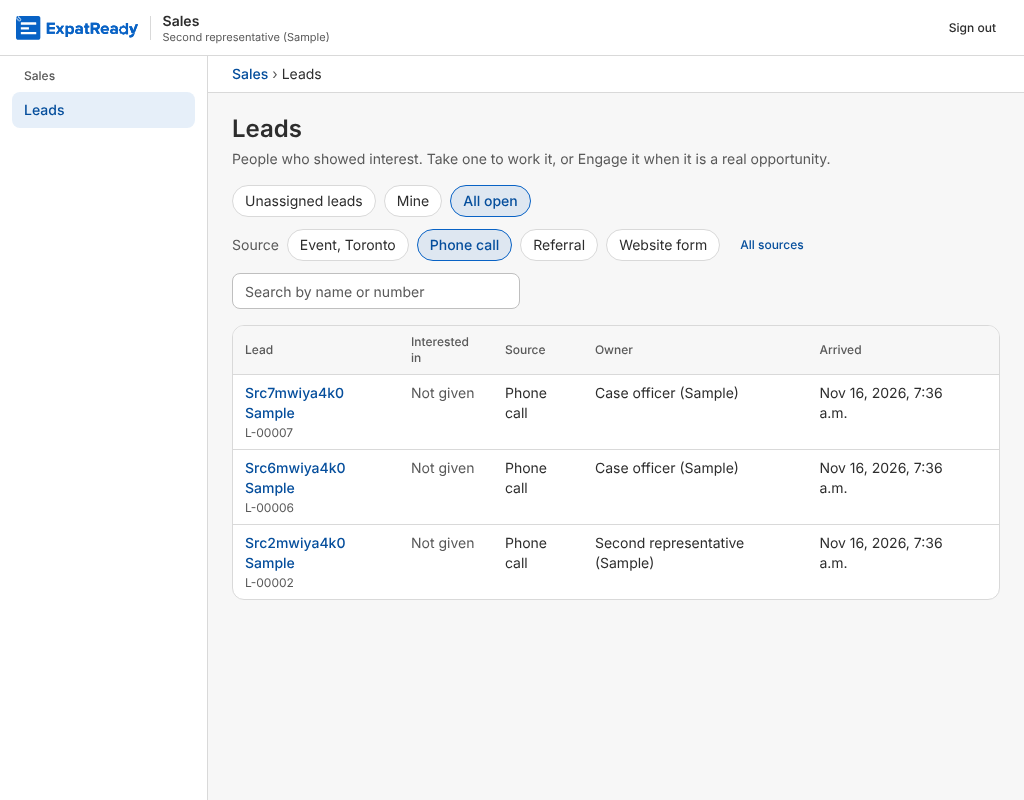
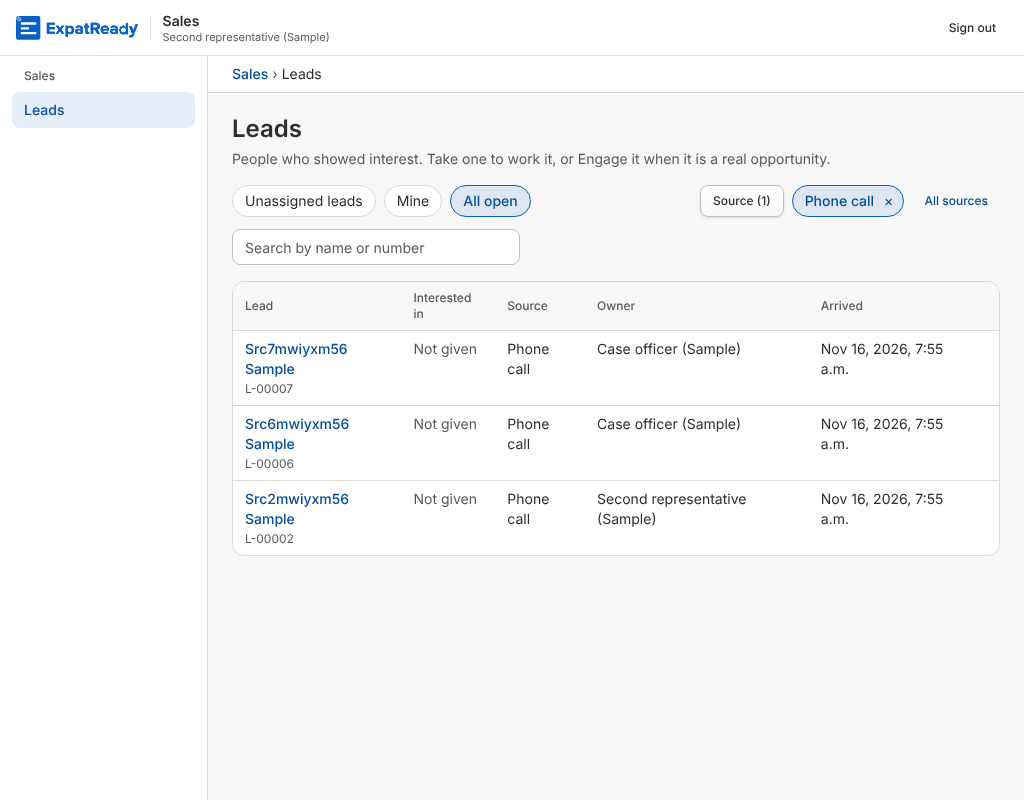
FO-4sf: one Source control (checkbox list with Find, chosen as chips); GROUP BY for sources; words() maps only known codes (re-review M4, m5, m6)
Claude-Session: https://claude.ai/code/session_018BSQJrtte9jtAzpoeJHT9g

diff --git a/ai-workers/problem-1-pathway-setup-and-form-filling/prototype/studio/tests/check_fo4sf_source_filter.ts b/ai-workers/problem-1-pathway-setup-and-form-filling/prototype/studio/tests/check_fo4sf_source_filter.ts
@@ -99,33 +99,53 @@ const shown = async () => new Set(await p.locator("tr[data-lead-row]").evaluateA
 const numberOf = (id: string) => sql(`select number from fo_lead where id = '${id}'`);
 const axe = async (name: string) => { const r = await new AxeBuilder({ page: p }).withTags(["wcag2a", "wcag2aa", "wcag21a", "wcag21aa", "wcag22aa"]).analyze();
   ok(`${name}: axe finds no WCAG A/AA violation`, r.violations.length === 0, r.violations.map((v) => `${v.id}: ${v.nodes[0]?.target?.join(" ")}`).join(" | ") || undefined); };
+// Scale (review M4): 30 more sources the Case Manager has, so the control must hold an open-ended list.
+for (let i = 1; i <= 30; i++) lead("MANUAL", `Sample source ${String(i).padStart(2, "0")}`, T.id);
+await p.setViewportSize({ width: 1024, height: 800 });
 await p.goto(`${BASE}/front-office/leads?view=all`); await p.locator(`tr[data-lead-row="${numberOf(L.tBook)}"]`).waitFor({ timeout: 30_000 });
-const chipTexts = await p.locator('[role="group"][aria-label="Source"] button[data-source]').allInnerTexts();
-ok("FO-4sf DW3 pass: the Source filter sits beside the view chips with the stored sources in plain words, none chosen", ["Website form", "Phone call", "Referral", "Event, Toronto"].every((x) => chipTexts.includes(x)) && !chipTexts.includes("WEBSITE") && (await p.locator('[data-source][aria-pressed="true"]').count()) === 0, chipTexts);
-await axe("FO-4sf Leads with the Source filter (1440 px)");
-// Keyboard only: Tab to "Phone call", Enter.
+const firstRowTop = async () => (await p.locator("tr[data-lead-row]").first().boundingBox())?.y ?? 9999;
+ok("FO-4sf DW3 pass (scale): with 34 sources at 1024 px the Source filter is one control and the table starts in the first screen", (await p.locator("[data-source-toggle]").count()) === 1 && (await p.locator("[data-source-toggle]").innerText()).trim() === "Source: all" && (await firstRowTop()) < 800, await firstRowTop());
+await axe("FO-4sf Leads with the Source filter (1024 px)");
+// Keyboard only: Tab to the Source button, Enter opens it with the cursor in Find, type, Tab to the box, Space ticks it.
 let reached = false;
-for (let i = 0; i < 40 && !reached; i++) { await p.keyboard.press("Tab"); reached = await p.evaluate(() => document.activeElement?.getAttribute("data-source") === "Phone call"); }
+for (let i = 0; i < 40 && !reached; i++) { await p.keyboard.press("Tab"); reached = await p.evaluate(() => document.activeElement?.hasAttribute("data-source-toggle") ?? false); }
 await p.keyboard.press("Enter");
+await p.locator("#fo-source-list").waitFor({ timeout: 5_000 });
+const inFind = await p.evaluate(() => document.activeElement?.hasAttribute("data-source-find") ?? false);
+const listTexts = await p.locator('#fo-source-list label:has(input[data-source])').allInnerTexts();
+ok("FO-4sf DW3 pass: the list holds the stored sources in plain words, none ticked, and scrolls inside itself", ["Website form", "Phone call", "Referral", "Event, Toronto"].every((x) => listTexts.map((t) => t.trim()).includes(x)) && !listTexts.some((t) => t.trim() === "WEBSITE") && (await p.locator("#fo-source-list input:checked").count()) === 0
+  && await p.locator("#fo-source-list fieldset").evaluate((f) => f.scrollHeight > f.clientHeight) && (await firstRowTop()) < 800, listTexts.length);
+await axe("FO-4sf Source list open (1024 px)");
+await p.keyboard.type("zzz");
+ok("FO-4sf DW3 fail: Find with no match says so, and nothing is chosen", (await p.locator("#fo-source-list [role=status]").innerText()).includes("No source matches") && !p.url().includes("source="));
+await p.keyboard.press("Control+a"); await p.keyboard.type("phone");
+await p.keyboard.press("Tab"); const onBox = await p.evaluate(() => document.activeElement?.getAttribute("data-source"));
+await p.keyboard.press("Space");
 await p.waitForURL(/source=Phone/, { timeout: 10_000 }); await p.locator(`tr[data-lead-row="${numberOf(L.tBook)}"]`).waitFor({ state: "detached", timeout: 15_000 }); await p.locator(`tr[data-lead-row="${numberOf(L.tMan)}"]`).waitFor({ timeout: 15_000 });
+await p.keyboard.press("Escape");
 const afterPick = await shown();
-ok("FO-4sf DW3 pass (keyboard only): Tab reaches \"Phone call\", Enter filters the list to those leads, the booked one included", reached && [L.tMan, L.oMan, L.oBook].every((x) => afterPick.has(numberOf(x))) && ![L.tWeb, L.tBook, L.oWeb, L.tComma].some((x) => afterPick.has(numberOf(x))), [...afterPick]);
+ok("FO-4sf DW3 pass (keyboard only): Tab, Enter, type \"phone\", Tab, Space filters to Phone call, the booked lead included; Escape closes and returns to the button", reached && inFind && onBox === "Phone call" && [L.tMan, L.oMan, L.oBook].every((x) => afterPick.has(numberOf(x))) && ![L.tWeb, L.tBook, L.oWeb, L.tComma].some((x) => afterPick.has(numberOf(x)))
+  && (await p.locator("#fo-source-list").count()) === 0 && await p.evaluate(() => document.activeElement?.hasAttribute("data-source-toggle") ?? false), { reached, inFind, onBox, rows: [...afterPick] });
 await p.reload(); await p.locator(`tr[data-lead-row="${numberOf(L.tMan)}"]`).waitFor({ timeout: 30_000 });
 const afterReload = await shown();
-ok("FO-4sf DW3 pass: the choice survives a reload (?source= in the address, the chip still pressed)", (await p.locator('[data-source="Phone call"][aria-pressed="true"]').count()) === 1 && !afterReload.has(numberOf(L.tBook)) && p.url().includes("view=all"), p.url());
-await axe("FO-4sf Leads filtered by Phone call");
-await p.screenshot({ path: join(SHOTS, "leads-source-filter-1440.png"), fullPage: true });
-for (const w of [1024, 375]) {
-  await p.setViewportSize({ width: w, height: 800 });
+ok("FO-4sf DW3 pass: the choice survives a reload (?source= in the address, shown as a chip and on the button)", (await p.locator('[data-source-chip="Phone call"]').count()) === 1 && (await p.locator("[data-source-toggle]").innerText()).trim() === "Source (1)" && !afterReload.has(numberOf(L.tBook)) && p.url().includes("view=all"), p.url());
+await axe("FO-4sf Leads filtered by Phone call (1024 px)");
+await p.screenshot({ path: join(SHOTS, "leads-source-filter-1024.png"), fullPage: true });
+for (const w of [1440, 375]) {
+  await p.setViewportSize({ width: w, height: w === 375 ? 800 : 900 });
   ok(`FO-4sf DW3 pass: no sideways page scroll at ${w} px`, await p.evaluate(() => document.documentElement.scrollWidth <= window.innerWidth + 1));
-  await p.screenshot({ path: join(SHOTS, `leads-source-filter-${w}.png`), fullPage: true });
+  if (w === 375) { await p.locator("[data-source-toggle]").click(); await p.locator("#fo-source-list").waitFor(); ok("FO-4sf DW3 pass: the open list fits the 375 px screen", await p.evaluate(() => { const r = document.getElementById("fo-source-list")!.getBoundingClientRect(); return r.left >= 0 && r.right <= window.innerWidth + 1 && document.documentElement.scrollWidth <= window.innerWidth + 1; })); await axe("FO-4sf Source list open (375 px)"); await p.screenshot({ path: join(SHOTS, "leads-source-filter-375.png"), fullPage: true }); await p.keyboard.press("Escape"); }
+  else await p.screenshot({ path: join(SHOTS, "leads-source-filter-1440.png"), fullPage: true });
 }
-await axe("FO-4sf Leads filtered (375 px)"); await p.setViewportSize({ width: 1440, height: 900 });
-await p.locator('[data-source-clear]').click(); await p.locator(`tr[data-lead-row="${numberOf(L.tBook)}"]`).waitFor({ timeout: 15_000 });
-ok("FO-4sf DW3 pass: All sources clears the filter and the address", !p.url().includes("source=") && (await shown()).has(numberOf(L.oWeb)), p.url());
+await p.setViewportSize({ width: 1440, height: 900 });
+await p.getByRole("button", { name: "Remove source: Phone call" }).click(); await p.locator(`tr[data-lead-row="${numberOf(L.tBook)}"]`).waitFor({ timeout: 15_000 });
+ok("FO-4sf DW3 pass: the chip's × removes that source and clears the address", !p.url().includes("source=") && (await shown()).has(numberOf(L.oWeb)), p.url());
+await p.goto(`${BASE}/front-office/leads?view=all&source=Referral&source=WEBSITE`); await p.locator(`tr[data-lead-row="${numberOf(L.tWeb)}"]`).waitFor({ timeout: 30_000 });
+await p.locator("[data-source-clear]").click(); await p.locator(`tr[data-lead-row="${numberOf(L.tMan)}"]`).waitFor({ timeout: 15_000 });
+ok("FO-4sf DW3 pass: All sources clears every chosen source and the address", !p.url().includes("source=") && (await p.locator("[data-source-chip]").count()) === 0, p.url());
 // Fail side: a hand-edited address with an unknown source is dropped (all sources shown), never an error page.
 await p.goto(`${BASE}/front-office/leads?view=all&source=FAX`); await p.locator(`tr[data-lead-row="${numberOf(L.tBook)}"]`).waitFor({ timeout: 30_000 });
-ok("FO-4sf DW3 fail: an unknown ?source= in the address is ignored: no chip pressed, every source listed, no error", (await p.locator('[data-source][aria-pressed="true"]').count()) === 0 && (await p.getByRole("alert").count()) === 0);
+ok("FO-4sf DW3 fail: an unknown ?source= in the address is ignored: no chip, every source listed, no error", (await p.locator("[data-source-chip]").count()) === 0 && (await p.getByRole("alert").count()) === 0);
 // Fail side: a source with no lead in this view says so and offers All sources.
 sql(`update fo_lead set owner_staff_id = '${O.id}' where id = '${L.tBook}'`);   // the Case Manager now owns no Referral lead
 await p.goto(`${BASE}/front-office/leads?view=mine&source=Referral`); await p.locator("[data-empty]").waitFor({ timeout: 30_000 });

diff --git a/ai-workers/problem-1-pathway-setup-and-form-filling/prototype/studio/web/src/modules/front-office/sales/leads-page.tsx b/ai-workers/problem-1-pathway-setup-and-form-filling/prototype/studio/web/src/modules/front-office/sales/leads-page.tsx
@@ -24,6 +24,56 @@ export function useLeads(view: View, sources: string[] = [], enabled = true) {
   return useQuery({ enabled, queryKey: ["fo", "leads", view, ...(sources.length ? [sources] : [])], queryFn: async () => LeadRows.parse(await staffApi(`/front-office/leads?view=${view}${q}`)) });
 }
 const useSources = () => useQuery({ queryKey: ["fo", "lead-sources"], queryFn: async () => LeadSources.parse(await staffApi("/front-office/leads/sources")).sources });
+/** FO-4sf (AG-2-23 rule 1): one Source control for an open-ended list. A button opens a checkbox list with type-to-find;
+ *  each chosen source shows as a removable chip beside it. Escape or a click outside closes it and focus returns. */
+function SourceFilter({ choices, chosen, toggle, clear, failed, retry }: { choices: string[]; chosen: string[]; toggle: (c: string) => void; clear: () => void; failed: boolean; retry: () => void }) {
+  const [open, setOpen] = React.useState(false);
+  const [find, setFind] = React.useState("");
+  const box = React.useRef<HTMLDivElement>(null), opener = React.useRef<HTMLButtonElement>(null), finder = React.useRef<HTMLInputElement>(null);
+  const close = (refocus: boolean) => { setOpen(false); setFind(""); if (refocus) opener.current?.focus(); };
+  React.useEffect(() => {
+    if (!open) return;
+    finder.current?.focus();
+    const away = (e: MouseEvent) => { if (box.current && !box.current.contains(e.target as Node)) close(false); };
+    document.addEventListener("mousedown", away); return () => document.removeEventListener("mousedown", away);
+  }, [open]);
+  const needle = find.trim().toLowerCase();
+  const listed = choices.filter((c) => !needle || words(c).toLowerCase().includes(needle) || c.toLowerCase().includes(needle));
+  return (
+    <div ref={box} data-source-filter className="relative flex flex-wrap items-center gap-2" onKeyDown={(e) => { if (e.key === "Escape" && open) { e.stopPropagation(); close(true); } }}>
+      <Button ref={opener} variant="outline" size="sm" aria-expanded={open} aria-controls="fo-source-list" data-source-toggle onClick={() => (open ? close(true) : setOpen(true))}>
+        {chosen.length ? `Source (${chosen.length})` : "Source: all"}
+      </Button>
+      {chosen.map((c) => (
+        <span key={c} data-source-chip={c} className="inline-flex min-h-8 items-center gap-1 rounded-full border border-primary bg-primary/10 pl-3 pr-1 text-sm font-medium text-text-link [overflow-wrap:anywhere]">
+          {words(c)}
+          <button type="button" aria-label={`Remove source: ${words(c)}`} onClick={() => toggle(c)} className="rounded-full px-1.5 outline-none hover:bg-text/10 focus-visible:ring-[3px] focus-visible:ring-ring/50">×</button>
+        </span>
+      ))}
+      {chosen.length ? <Button variant="link" size="sm" data-source-clear onClick={clear}>All sources</Button> : null}
+      {failed ? <span role="alert" className="text-sm text-text-danger">Could not load the sources. <Button variant="link" size="sm" onClick={retry}>Try again</Button></span> : null}
+      {open ? (
+        <div id="fo-source-list" className="absolute left-0 top-full z-20 mt-1 w-[min(20rem,calc(100vw-2rem))] rounded-xl border border-border bg-surface-raised p-2 shadow-lg">
+          <label className="block">
+            <span className="sr-only">Find a source</span>
+            <Input ref={finder} type="search" placeholder="Find a source" value={find} onChange={(e) => setFind(e.target.value)} data-source-find />
+          </label>
+          <fieldset className="mt-2 max-h-64 overflow-y-auto">
+            <legend className="sr-only">Show leads from these sources</legend>
+            {!choices.length ? <p className="px-2 py-1 text-sm text-text-muted">No sources yet.</p>
+              : !listed.length ? <p role="status" className="px-2 py-1 text-sm text-text-muted">No source matches “{find.trim()}”.</p>
+                : listed.map((c) => (
+                  <label key={c} className="flex min-h-9 cursor-pointer items-center gap-2 rounded-md px-2 text-sm text-text hover:bg-text/5 [overflow-wrap:anywhere]">
+                    <input type="checkbox" data-source={c} checked={chosen.includes(c)} onChange={() => toggle(c)} className="size-4 accent-[var(--color-primary,currentColor)]" />
+                    {words(c)}
+                  </label>
+                ))}
+          </fieldset>
+        </div>
+      ) : null}
+    </div>
+  );
+}
 function LeadsBody() {
   const me = useStaff();
   const [params, setParams] = useSearchParams();
@@ -63,17 +113,7 @@ function LeadsBody() {
             </button>
           ))}
         </div>
-        <div role="group" aria-label="Source" data-source-filter className="flex flex-wrap items-center gap-2">
-          <span aria-hidden className="text-sm text-text-muted">Source</span>
-          {choices.map((c) => (
-            <button key={c} type="button" aria-pressed={sources.includes(c)} data-source={c} onClick={() => toggle(c)}
-              className={cn("min-h-8 rounded-full border px-3 text-sm outline-none focus-visible:ring-[3px] focus-visible:ring-ring/50 [overflow-wrap:anywhere]", sources.includes(c) ? "border-primary bg-primary/10 font-medium text-text-link" : "border-border bg-surface-raised text-text hover:bg-text/5")}>
-              {words(c)}
-            </button>
-          ))}
-          {known.isError ? <span role="alert" className="text-sm text-text-danger">Could not load the sources. <Button variant="link" size="sm" onClick={() => known.refetch()}>Try again</Button></span> : null}
-          {sources.length ? <Button variant="link" size="sm" data-source-clear onClick={() => go(view, [])}>All sources</Button> : null}
-        </div>
+        <SourceFilter choices={choices} chosen={sources} toggle={toggle} clear={() => go(view, [])} failed={known.isError} retry={() => known.refetch()} />
         <label className="w-full sm:w-72">
           <span className="sr-only">Search leads by name or number</span>
           <Input type="search" placeholder="Search by name or number" value={q} onChange={(e) => setQ(e.target.value)} />

diff --git a/ai-workers/problem-1-pathway-setup-and-form-filling/prototype/studio/web/src/modules/front-office/sales/contract.ts b/ai-workers/problem-1-pathway-setup-and-form-filling/prototype/studio/web/src/modules/front-office/sales/contract.ts
@@ -40,9 +40,10 @@ export const Thanks = z.object({ thankYouText: z.string() });
 /** The permission keys each button needs (concept §6 as ruled on #1813: reads use `agent/prospect:show`). */
 export const KEY = { show: "agent/prospect:show", edit: "agent/prospect:edit", assign: "agent/prospect:assign", viewAll: "agent/prospect:view.all" } as const;
 /** A stored code in plain words (EXPERIENCE §5): the lead's source and state. */
-const WORDS: Record<string, string> = { WEBSITE: "Website form", OPEN: "Open", CLOSED: "Closed" };
-/** A stored code (capitals and _) in plain words; a source a person typed ("Event, Toronto") is shown as typed (FO-4sf). */
-export const words = (code: string) => WORDS[code] ?? (/^[A-Z0-9_]+$/.test(code) ? (code.charAt(0) + code.slice(1).toLowerCase()).replace(/_/g, " ") : code);
+const WORDS: Record<string, string> = { WEBSITE: "Website form", OPEN: "Open", ENGAGED: "Engaged", CLOSED: "Closed" };
+/** A known stored code in plain words; anything else (a source a person typed: "VIP event", "Event, Toronto") is shown
+ *  exactly as typed (FO-4sf review m6). */
+export const words = (code: string) => WORDS[code] ?? code;
 /** FO-4sf (AG-2-23 rule 1): the Source filter's choices, the stored sources of the leads the person may see (leads.ts). */
 export const LeadSources = z.object({ sources: z.array(z.string()) });
 /** Why a person sees no Take it (BIC-18): their role may read leads but not work them. */

diff --git a/ai-workers/problem-1-pathway-setup-and-form-filling/prototype/studio/api/src/front-office/sales/leads.ts b/ai-workers/problem-1-pathway-setup-and-form-filling/prototype/studio/api/src/front-office/sales/leads.ts
@@ -80,7 +80,8 @@ export class Leads {
   }
 
   private async sourcesSeen(ctx: StaffContext, vis: Visibility, inactive: string[]): Promise<string[]> {
-    const rows = await this.db.foLead.findMany({ where: firmScope(ctx.firmId, this.seenWhere(ctx, vis, inactive)), distinct: ["source"], select: { source: true }, orderBy: { source: "asc" }, take: 200 });
+    // GROUP BY in the database (review m5): one row per source, never every lead, and no cap that would hide a source.
+    const rows = await this.db.foLead.groupBy({ by: ["source"], where: firmScope(ctx.firmId, this.seenWhere(ctx, vis, inactive)), orderBy: { source: "asc" } });
     return rows.map((r) => r.source);
   }
 

diff --git a/ai-workers/problem-1-pathway-setup-and-form-filling/product/screens/FO-4sf/review.md b/ai-workers/problem-1-pathway-setup-and-form-filling/product/screens/FO-4sf/review.md
@@ -48,29 +48,8 @@ Reviewer (Opus, did not build it), 16 Nov, 07:3x UTC. **Commit reviewed: `036a5a
   - `check_fo4_sales_browser` 45/45
   - `graph.mjs --check`: G1 0 · G3 93 · G6 17, unchanged from FO-2v's review. The PR adds no element without a capability.
 
-## D1–D20 (a filter on an existing screen)
-| D | Score | Evidence |
-|---|---|---|
-| D1 | 2 | The mechanics are right, but the field is the door, not AG-2-23's source (Blocker 1) |
-| D2 | 5 | Read only; nothing changed underneath (J-data) |
-| D3 | 4 | One `sourcesOf`, one query; API and web lists kept in step by hand (`contract.ts:46`, `leads.ts:21`) |
-| D4 | N/A | No question rules |
-| D5 | 4 | Reload and browser Back keep it; the in-app Leads link drops it (Minor 2) |
-| D6 | N/A | Reads write no audit line, correctly |
-| D7 | N/A | No AI |
-| D8 | 5 | Sales › Leads, unchanged |
-| D9 | 5 | The empty state offers All sources |
-| D10 | 4 | 400 names the allowed values; a bad `?source=` in the address is ignored on screen |
-| D11 | 4 | Pressed chips, the address, empty state; the search line is silent about the filter (Minor 3) |
-| D12 | 5 | Same chip look as the view chips (J1 screenshot) |
-| D13 | 5 | axe clean at 1440, 1024 and 720 px (200 %); keyboard Tab/Space/Enter; focus ring; no sideways scroll |
-| D14 | 2 | "Source" means two things on one screen (Blocker 1) |
-| D15 | 5 | Filtered list in about 0.37 s from the click |
-| D16 | 4 | A pass and a fail for each DW; no test separates source from door |
-| D17 | simulated only | No intended-user walk |
-| D18 | 3 | The filter's label contradicts the origin the row shows |
-| D19 | N/A | Not a closure row |
-| D20 | simulated only | No intended-user walk |
+## D1–D20 (first score at `036a5a78` → at `e227799a`; the first full table with its evidence lines is in git at `e227799a`)
+D1 2→4 (the source is right now; chip wall, Major 4) · D2 5 · D3 4 · D4 N/A · D5 4 (Leads link, Minor 2) · D6 N/A · D7 N/A · D8 5 · D9 5 · D10 4 · D11 4→5 · D12 5 · D13 5→4 (26 tab stops at scale) · D14 2→4 · D15 5→4 (in-memory distinct, Minor 5) · D16 4→5 (door≠source case) · D17 simulated only · D18 3→5 · D19 N/A · D20 simulated only.
 
 **BIC-01 to BIC-20: N/A.** `EXPERIENCE.md` §6 scopes them to case-side screens; this is a front-office list filter.
 **Retrofit mapping (item 6):** N/A. This is a new filter on FO-4's Leads screen, with no team screen to map.
@@ -78,3 +57,32 @@ Reviewer (Opus, did not build it), 16 Nov, 07:3x UTC. **Commit reviewed: `036a5a
 **Not checked:** a real screen reader; an intended user's unaided walk (D17/D20); a live Lead B ruling on the brief's intent. I found no PR for the branch through the REST API.
 
 **Verdict: Block** (= Changes requested). Must: Blocker 1. Should: Minors 2 and 3, in the same push or listed in the PR. A re-review reads only the diff.
+
+## Re-review at `e227799a207a6d270e5565508d3c262d75aef1c8` (diff `036a5a78..e227799a` only, P-277; PR #1962)
+Copy `review_fo4sf2` on :4436, never :4400; US$0.
+- **Blocker 1: fixed.**
+  - `list` filters the stored `source` (`leads.ts:61`). Values come repeated and are never split. Allowed = the distinct sources of leads the person may see (`seenWhere`). `GET leads/sources` (@OwnOrAll) gives the chips, and `words()` shows them as the Source column does.
+  - J1 again: "Referral" pressed → the Source column reads only "Referral".
+  - The suite has a booked lead whose source is "Phone call", and a door filter fails DW1 and DW3.
+  - Unknown values (or another person's) → 400 naming only the person's own sources, so a source cannot be used to probe for another person's leads.
+  - Mutation: choices ignoring visibility → PF-6b DW6 FAIL and FO-4sf "DW2 fail" FAIL (reverted).
+- **Minor 3: fixed.** The no-match line now reads "No lead matches “Bo…” among Referral."
+- **Minor 2: still open, recorded in the PR.** The app's Leads link goes to `?view=all`. Acceptable as a Minor.
+- **Runs (mine):** `check_fo4sf` 24/24 · `check_fo2` 113/113 · `check_fo2v` 14/14 · `check_pf6b` 29/29 · `check_fo4_sales_browser` 45/45. axe is clean at 1024 and 720 px, with no sideways scroll. Rewritten screenshots restored.
+
+### New in this diff
+4. **Major (Must): the filter is a row of chips over an open-ended list, so it does not scale.**
+   - The brief asks for "a multi-select". Every typed source becomes a chip.
+   - With 26 sources at 1024×800, the chips take 12 rows and the table starts at 726 px, below the fold. A keyboard user tabs through 26 stops to reach search (my run; screenshot step `re-1024`).
+   - AG-2-2 rule 3 alone seeds 15 sources. EXPERIENCE [M] line 7 (scalability first) and line 29 (keyboard path) apply.
+   - **Fix:** one "Source" control on the app's existing dropdown/popover: a checkbox list with type-to-find, the chosen sources shown as removable chips, `?source=` and the keyboard path kept. A pass and a fail at 30 sources: the table in the first screen at 1024 px.
+5. **Minor (Should): the distinct runs in memory.**
+   - Prisma sends `SELECT id, source FROM fo_lead WHERE … ORDER BY source OFFSET $2` with no DISTINCT and no LIMIT (query log), and dedups in the engine. It reads every visible lead, open and closed, on each page load and each filtered call.
+   - At 80,045 leads: `leads/sources` 0.14–0.23 s, list+source 0.13–0.16 s; SQL DISTINCT takes 0.03 s. That is within budget but grows with history.
+   - The `take: 200` applies after the dedup, so a source past the 200th (A to Z) can be neither chosen nor asked for (400).
+   - **Fix:** `groupBy({ by: ["source"] })` or `$queryRaw … SELECT DISTINCT`, and drop or raise the cap together with fix 4.
+6. **Minor (Should): `words()` rewords typed text in capitals.** A typed "CAPS" shows as "Caps", and "VIP" would show as "Vip" (`contract.ts:45`). Map only the known codes in `WORDS` and show other text as typed.
+
+**Journey score at this head: 8/10** (pass, no 0). Task completed 1 · next step obvious ½ (chip wall) · plain words 1 · feedback and state 1 · correct data 1 · error recovery ½ (Leads link drops the filter) · accessibility and screen sizes ½ (26 tab stops; list below the fold at 1024) · speed 1 · visual quality ½ (chip wall) · trust and sources 1.
+
+**Verdict: Changes requested** for `e227799a`. Must: Major 4. Should: Minors 5 and 6 in the same push, or list them in the PR. Minor 2 stays listed. A re-review reads only the diff.
